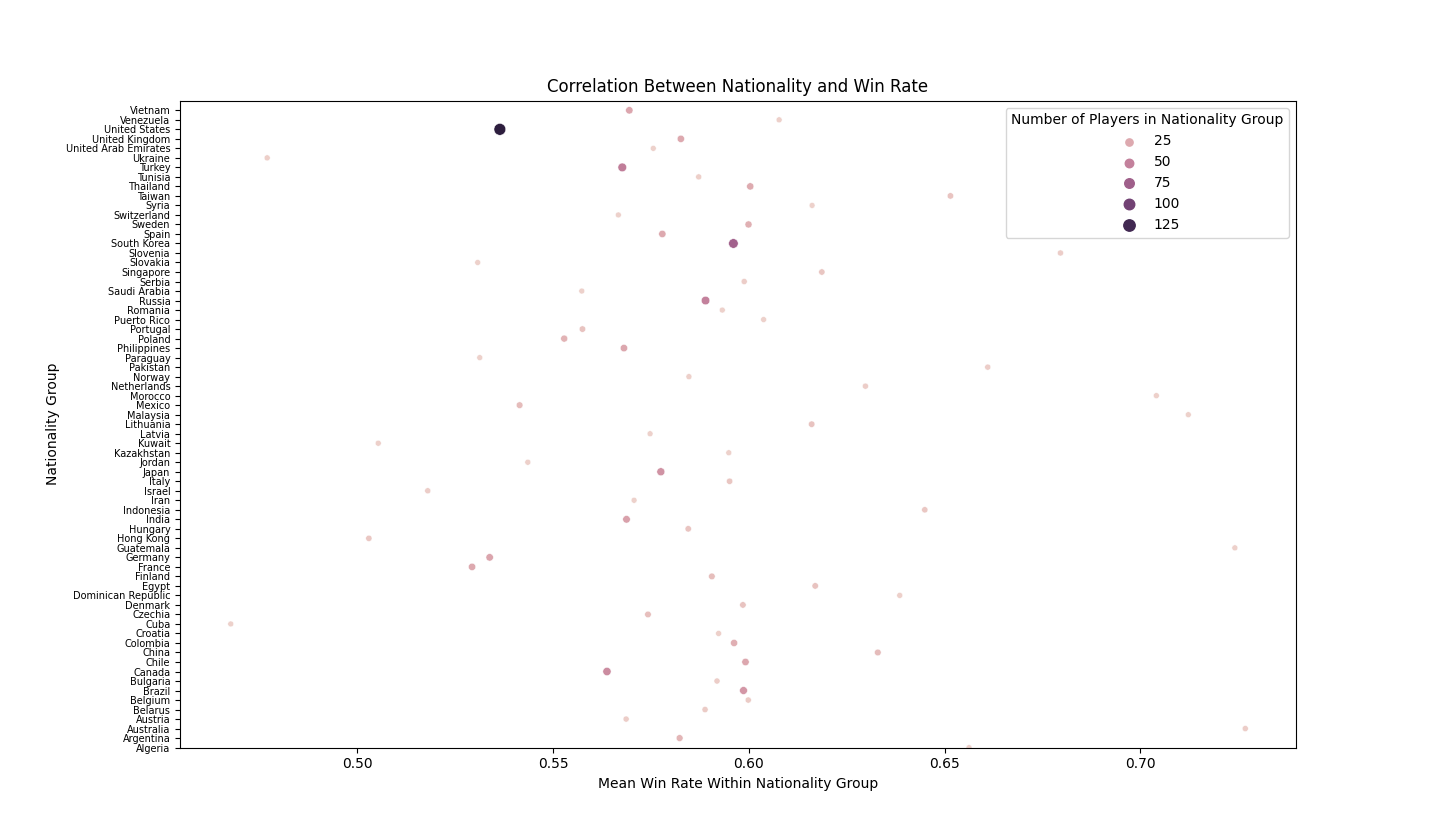
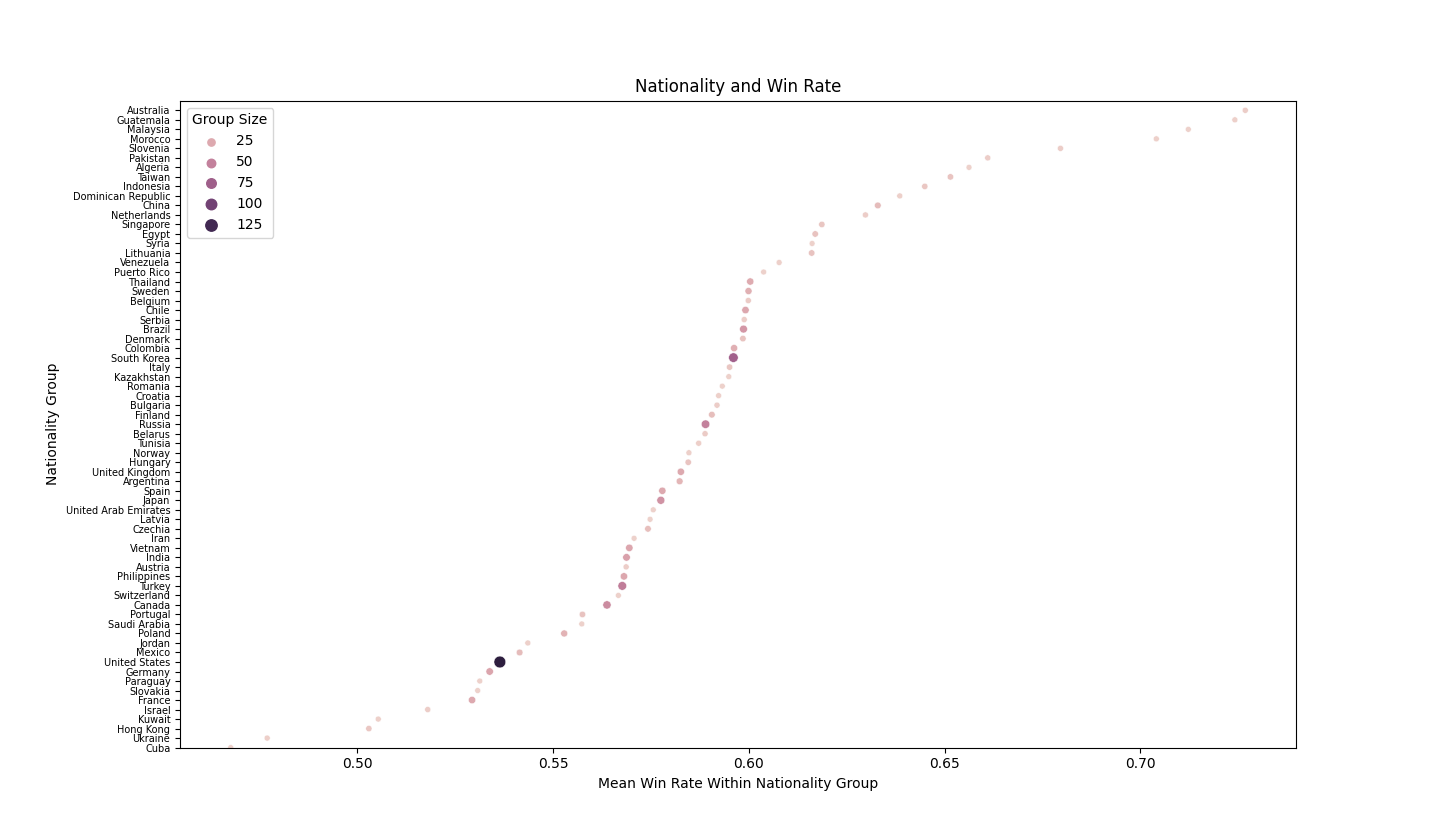
cleaned up and commented code

diff --git a/calcAnswers.py b/calcAnswers.py
@@ -1,3 +1,5 @@
+#This program finds the answers to 2 of our questions by graphing them
+
 import matplotlib.pyplot as plt
 import pandas as pd
 import numpy as np
@@ -17,142 +19,125 @@ cleanDf=ndf2.dropna(subset=['age'])
 
 #get the number of players a player has played with that has UNIQUE natinality and or age 
 #number of links with unique attributes ^
-rowID = 0
-diversityCount = []
-while rowID<1021: #cleanDf has 1021 rows :(
-    row = cleanDf.iloc[rowID]
-    nodeLinks =links.loc[links['Source'] == rowID]
-    targetNodes = nodeLinks['Target']
-    numberOfTargets = len(targetNodes)
+def plotDiversityCount():
+    rowID = 0
+    diversityCount = []
 
-    targetRowID = 0
-    linkAttributes = []
-    uniqueLinkAttributesCount = 0
-    while targetRowID<numberOfTargets:
-        targetAttributes = cleanDf.iloc[targetRowID]
-        targetAge = targetAttributes['age']
-        targetNat = targetAttributes['nationality']
-        linkAttributes.append(targetAge)
-        linkAttributes.append(targetNat)
-        uniqueLinkAttributes = set(linkAttributes)
-        uniqueLinkAttributesCount = len(uniqueLinkAttributes)
-        targetRowID+=1
-    
-    diversityCount.append(uniqueLinkAttributesCount)
-   
-    rowID+=1
+    #iterate through each row to find every link per node
+    while rowID<1021: #cleanDf has 1021 rows which is why i use that number
+        nodeLinks =links.loc[links['Source'] == rowID] #gets node's edges in edge list
+        targetNodes = nodeLinks['Target'] #these are the nodes that have a link with our current node (rowID)
+        numberOfTargets = len(targetNodes) 
 
+        targetRowID = 0
+        linkAttributes = []
+        uniqueLinkAttributesCount = 0
 
-
-
-i = 0
-dictLength = len(diversityCount)
-#calc avg winrate for each diversity count 
-uniqueDiversityCounts = set(diversityCount)
-# print(uniqueDiversityCounts)
-
-diversityWinrate = {}
-
-while i<dictLength:
-    diversityWinrate[i]={
-                    'winrate': cleanDf.iloc[i]['pro-matches-winrate'], 
-                    'diversityCount': diversityCount[i],
-                    }
-    # diversityWinrate[i] = 
-    i+=1
-diversityDf = pd.DataFrame.from_dict(diversityWinrate,orient='index')
-i=0
-uniqueDiversityCountsSORTED = sorted(uniqueDiversityCounts)
-while i<len(uniqueDiversityCounts):
-    currDiversityCount = uniqueDiversityCounts.pop()
-    dCDf = diversityDf.loc[diversityDf['diversityCount'] == currDiversityCount]
-    pp = dCDf.groupby("diversityCount")
-    mean = pp.mean()
-
-    i+=1
-
-
-
-pp = diversityDf.groupby(['diversityCount']).mean()
-counts = diversityDf.groupby(['diversityCount']).count()
-count = counts.rename(columns={'winrate' : 'Number of Players With Same Diversity Count'})
-
-print(pp)
-
-# ax = sns.scatterplot(x=pp['winrate'],y=uniqueDiversityCountsSORTED, size=count['Number of Players With Same Diversity Count'])
-# ax.set(
-#         xlabel = 'Mean Win Rate Among Players With Same Diversity Count',
-#         ylabel = 'Diversity Count',
-#         title = 'Correlation Between Playing Against A Diverse Number of Oppenents and Win Rate'
-#     )
-# plt.figure(figsize=(10, 10), dpi=80)
-# plt.scatter(pp['winrate'], uniqueDiversityCountsSORTED)
-# plt.xlabel("Player Win Rate (Match Wins/Total Matches)")
-# plt.ylabel("Number of Diverse Opponents")
-# plt.savefig('winrateAndOpponentDiversity.png')
-# plt.show()
-
-# def getDuplicateSizes(df,sortedDf):
-#     i = 0
-#     duplicateCount = []
-
-#     while (i<len(df)):
+        #for each of the node's links, we get their attributes
+        while targetRowID<numberOfTargets:
+            targetAttributes = cleanDf.iloc[targetRowID] #get the target attributes
+            targetAge = targetAttributes['age'] #get the age
+            targetNat = targetAttributes['nationality'] #get nationality 
+            #add attributes to our link attributes array
+            linkAttributes.append(targetAge) 
+            linkAttributes.append(targetNat)
+            uniqueLinkAttributes = set(linkAttributes) # set only keeps unique attributes 
+            uniqueLinkAttributesCount = len(uniqueLinkAttributes) #gets the number of unique attributes (this is our diversitycount/ player)
+            targetRowID+=1
         
+        diversityCount.append(uniqueLinkAttributesCount) #put number of unique attributes into our diversity count array
+    
+        rowID+=1
 
 
+    i = 0
+    dictLength = len(diversityCount)
+    #calc avg winrate for each diversity count 
+    uniqueDiversityCounts = set(diversityCount)
+    diversityWinrate = {}
+
+    #create a new dictionaty with winrate and diversity count
+    while i<dictLength:
+        diversityWinrate[i]={
+                        'winrate': cleanDf.iloc[i]['pro-matches-winrate'], 
+                        'diversityCount': diversityCount[i],
+                        }
+        i+=1
+    diversityDf = pd.DataFrame.from_dict(diversityWinrate,orient='index') #create the dataframe from our dictionary
+    i=0
+    uniqueDiversityCountsSORTED = sorted(uniqueDiversityCounts) #sort by diversity count
+    
+    newdf = diversityDf.groupby(['diversityCount']).mean() #winrates in the diversity count group are averaged to get a single value
+    counts = diversityDf.groupby(['diversityCount']).count()
+    count = counts.rename(columns={'winrate' : 'Number of Players With Same Diversity Count'})
+
+
+    ax = sns.scatterplot(x=newdf['winrate'],y=uniqueDiversityCountsSORTED, size=count['Number of Players With Same Diversity Count'])
+    ax.set(
+            xlabel = 'Mean Win Rate Among Players With Same Diversity Count',
+            ylabel = 'Diversity Count',
+            title = 'Correlation Between Playing Against A Diverse Number of Oppenents and Win Rate'
+        )
+
+    plt.show()
 
 
 
 # How does a player's age & nationality affect their win rate?
 def plotAgeAndWinrate():
-    # print(cleanDf)
-    pp = cleanDf[['age','pro-matches-winrate']]
-    noRanges = pp[cleanDf['age'].str.contains('-') == False ]
-    countOfPlayersInAgeRange = noRanges.groupby(['age']).count()
-    count = countOfPlayersInAgeRange.rename(columns={'pro-matches-winrate' : 'Number of Players In Age Group'})
-    sortedCount = count.sort_index(ascending=False)
-    print(sortedCount)
-    sortedCount.to_csv('ageCountscsv.csv')
+    newdf = cleanDf[['age','pro-matches-winrate']]
+    noRanges = newdf[cleanDf['age'].str.contains('-') == False ] #remove data that contains age range instead of single number
+    countOfPlayersInAgeRange = noRanges.groupby(['age']).count() #get the size of the group
+    count = countOfPlayersInAgeRange.rename(columns={'pro-matches-winrate' : 'Number of Players In Age Group'}) #rename column
+    sortedCount = count.sort_index(ascending=True)
     avgWinratePerAge = noRanges.groupby(['age']).mean()
     
-    sortedDf = avgWinratePerAge.sort_values(by=['age'],ascending=False)
-    sortedAges = sorted(set(noRanges['age']), reverse = True)
+    sortedDf = avgWinratePerAge.sort_values(by=['age'],ascending=True) #sort values by age
+    sortedAges = sorted(set(noRanges['age'])) #remove duplicates using set() and sort
 
-    ax = sns.scatterplot(x = sortedDf['pro-matches-winrate'], y=sortedAges, size = sortedCount['Number of Players In Age Group'] )
+    ax = sns.scatterplot(y = sortedDf['pro-matches-winrate'], x=sortedAges, size = sortedCount['Number of Players In Age Group'] )
     ax.set(
         xlabel = 'Mean Win Rate Within Age Group',
         ylabel = 'Age Group',
         title = 'Correlation Between Age and Win Rate'
     )
     plt.show()
-    # plt.figure(figsize=(10, 10), dpi=80)
-    # plt.scatter( sortedDf['pro-matches-winrate'],sortedAges)
-    plt.xlabel("Player Win Rate (Match Wins/Total Matches)")
-    plt.ylabel("Player age")
-    plt.title("Correlation Between Player Age and Winrate")
-    # plt.show()
-    # a, b = np.polyfit(sortedDf['pro-matches-winrate'], sortedDf['age'], 1)
-    # plt.plot(sortedDf['pro-matches-winrate'], a*sortedDf['pro-matches-winrate']+b)   
-    # plt.show()
-# plt.show()
-# plotAgeAndWinrate()
+ 
+
 
 def plotNationalityAndWinRate():
     nW = cleanDf[['nationality','pro-matches-winrate']]
-    noDoubles = nW[nW['nationality'].str.contains('&') == False ]
-    countOfPlayersInGroup = noDoubles.groupby(['nationality']).count()
-    count = countOfPlayersInGroup.rename(columns={'pro-matches-winrate' : 'Number of Players in Nationality Group'})
+    noDoubles = nW[nW['nationality'].str.contains('&') == False ] #some players had 2 nationalities e.g: canada & sweden. We removed these 
+    countOfPlayersInGroup = noDoubles.sort_values(by=['pro-matches-winrate'],ascending=True).groupby(['nationality']).count() #get the size of the group
+    count = countOfPlayersInGroup.rename(columns={'pro-matches-winrate' : 'Group Size'})
 
     groupedByNationality = noDoubles.groupby(['nationality']).mean()
-    print(groupedByNationality)
-    ax = sns.scatterplot(x = groupedByNationality['pro-matches-winrate'], y=groupedByNationality.index, hue= count['Number of Players in Nationality Group'], size = count['Number of Players in Nationality Group'] )
+    merged = groupedByNationality.merge(count, left_index=True, right_index=True, how='inner') #merge count with other df so we can plot it
+    sortedDf = merged.sort_values(by=['pro-matches-winrate'],ascending=True) # sort values by win rate
+    
+    #scatterplot to show sizes
+    ax = sns.scatterplot(x = sortedDf['pro-matches-winrate'], y=sortedDf.index, size=sortedDf['Group Size'], hue =sortedDf['Group Size'] )
     ax.set(
         xlabel = 'Mean Win Rate Within Nationality Group',
         ylabel = 'Nationality Group',
-        title = 'Correlation Between Nationality and Win Rate'
+        title = 'Nationality and Win Rate'
     )
     ax.set_ylim(ymin=0, ymax=68)
     plt.tick_params(axis='y', labelsize='7', rotation = 0)
     plt.show()
 
+    #bar graph
+    bx = sns.barplot(x = sortedDf['pro-matches-winrate'], y=sortedDf.index, width=0.5)
+    bx.set(
+        xlabel = 'Mean Win Rate Within Nationality Group',
+        ylabel = 'Nationality Group',
+        title = 'Nationality and Win Rate'
+    ) 
+    bx.set_ylim(ymin=0, ymax=68)
+    plt.tick_params(axis='y', labelsize='7', rotation = 0)
+    plt.show()
+
+
 plotNationalityAndWinRate()
+plotAgeAndWinrate()
+plotDiversityCount()
